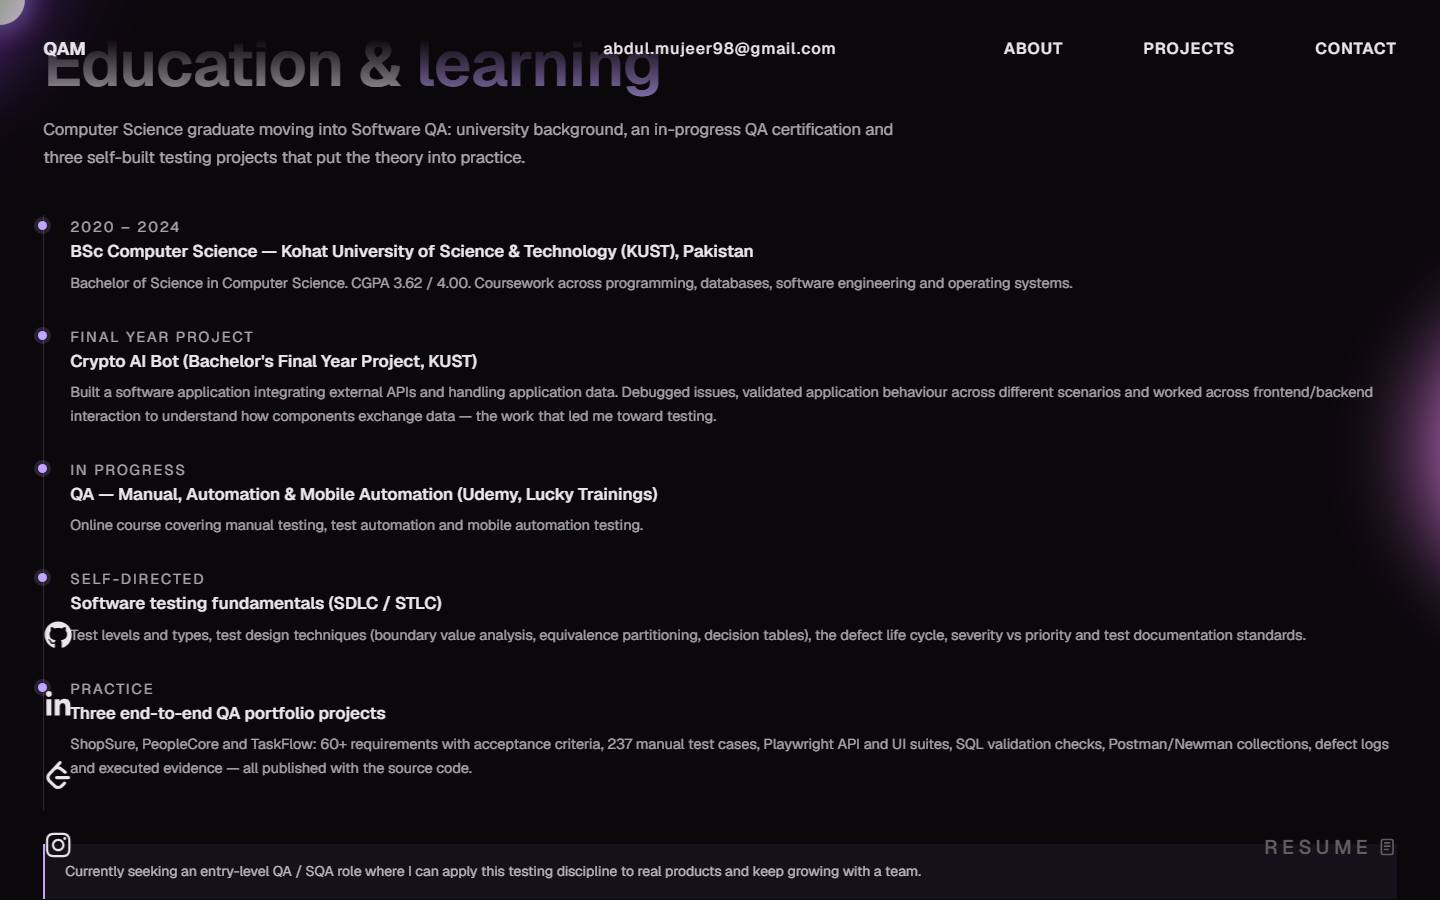
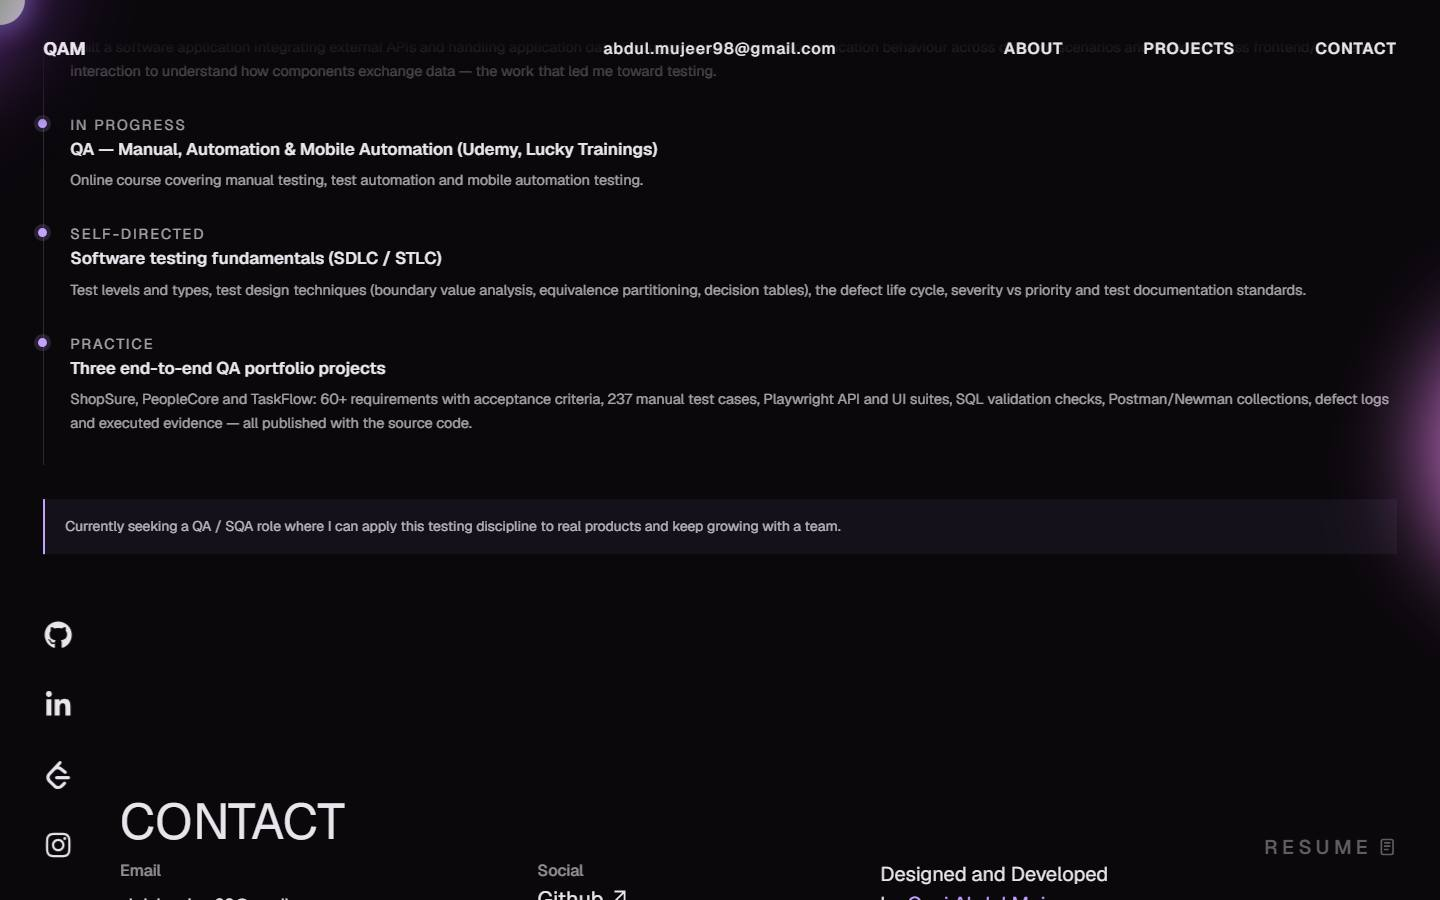
feat(about): recruiter-focused About section, QA wording cleanup and CV-backed facts
About section
- rewritten as a hook ('I don't just find bugs - I prove software is ready to ship'), a developer-to-QA positioning paragraph, a results paragraph quoting the real project totals (60 requirements, 237 manual cases, 525 automated checks, 21 defects found and fixed including the critical attendance authorization gap) and a Proof of work list with case-study and GitHub links for ShopSure, PeopleCore and TaskFlow
- supporting copy uses its own type scale (the existing .about-me p rule is outranked deliberately) so the section keeps a clear hierarchy

Wording
- 'entry-level' removed everywhere it described the owner: hero tagline, QA skills lede, footer, Education note, meta description, keywords, social description, README, build plan, handover topic list

Behaviour fixes found while verifying
- the 'What I Do' capability cards were tied to a scroll-scrubbed GSAP timeline (display none -> flex after a 6s delay inside the character animation), which made the QA skills unreliable or invisible; the cards now render always and the redundant reveal tweens are gone, while the section heading and character keep animating

Verification
- verify-site is now 27 checks: adds SITE-17 (What I Do cards visible with the QA capabilities) and SITE-18 (About proof-of-work links present, no 'entry-level' wording anywhere); section captures are only written when the target section is actually framed and the report records each one, so evidence can never be mislabelled

diff --git a/src/components/About.tsx b/src/components/About.tsx
@@ -1,13 +1,55 @@
+import { qaProjects } from "../data/qaProjects";
 import "./styles/About.css";
 
+/**
+ * About section.
+ *
+ * The copy is deliberately specific: every number comes from the three projects' own executed
+ * test reports (see docs/HANDOVER.md), and no claim is made about commercial QA employment.
+ */
 const About = () => {
   return (
     <div className="about-section" id="about">
       <div className="about-me">
         <h3 className="title">About Me</h3>
+
         <p className="para">
-          Computer Science graduate with foundational knowledge of Software Quality Assurance and Manual Testing. Familiar with test case design, defect reporting, SDLC/STLC, functional testing, regression testing, API testing, and basic SQL/Python. Seeking an entry-level QA/QC position to apply testing skills and grow in a professional software development environment.
+          I don't just find bugs — I prove software is ready to ship.
         </p>
+
+        <p className="about-detail">
+          Computer Science graduate (Kohat University of Science &amp; Technology, CGPA 3.62/4.00)
+          and former full-stack developer at Cyphion, where I built and debugged web applications.
+          That background is my advantage in QA: I trace a defect to the layer that causes it,
+          reproduce it through the API, and write a report an engineer can act on immediately.
+        </p>
+
+        <p className="about-detail">
+          To demonstrate the discipline rather than describe it, I ran the full testing lifecycle on
+          three applications built as test targets: 60 requirements with acceptance criteria, 237
+          manual test cases, 525 executed automated checks (Playwright API and UI suites, SQL
+          validation, Postman collections run with Newman), a requirements traceability matrix and an
+          evidence-based release report. I found, fixed and regression-verified 21 defects — including
+          a critical authorization gap that let any employee write attendance records for anyone.
+        </p>
+
+        <div className="about-proof">
+          <h4>Proof of work</h4>
+          <ul>
+            {qaProjects.map((project) => (
+              <li key={project.slug}>
+                <span className="about-proof-name">{project.shortTitle}</span>
+                <span className="about-proof-focus">{project.tagline}</span>
+                <span className="about-proof-links">
+                  <a href={project.caseStudyUrl}>Case study</a>
+                  <a href={project.sourceUrl} target="_blank" rel="noreferrer">
+                    GitHub
+                  </a>
+                </span>
+              </li>
+            ))}
+          </ul>
+        </div>
       </div>
     </div>
   );

diff --git a/index.html b/index.html
@@ -10,12 +10,12 @@
     <title>Qazi Abdul Mujeer — QA / SQA Engineer Portfolio | Manual &amp; Automation Testing</title>
     <meta
       name="description"
-      content="Entry-level QA / SQA engineer portfolio: three complete software testing projects with manual test cases, REST API testing, Playwright UI automation, SQL validation, defect reports and executed evidence."
+      content="QA / SQA engineer portfolio: three complete software testing projects with manual test cases, REST API testing, Playwright UI automation, SQL validation, defect reports and executed evidence."
     />
     <meta name="author" content="Qazi Abdul Mujeer" />
     <meta
       name="keywords"
-      content="QA engineer portfolio, SQA, manual testing, test cases, API testing, Playwright, Postman, SQL testing, defect reporting, entry level QA"
+      content="QA engineer portfolio, SQA, software testing, manual testing, test cases, API testing, Playwright, Postman, SQL testing, defect reporting, quality assurance"
     />
     <link rel="canonical" href="https://portfolio-abdul-mujeer.vercel.app/" />
 
@@ -32,7 +32,7 @@
     <meta name="twitter:title" content="Qazi Abdul Mujeer — QA / SQA Engineer Portfolio" />
     <meta
       name="twitter:description"
-      content="Entry-level QA portfolio with three complete testing projects, real executed test evidence and documented defects."
+      content="QA portfolio with three complete testing projects, real executed test evidence and documented defects."
     />
     <meta name="twitter:image" content="https://portfolio-abdul-mujeer.vercel.app/images/qa-projects/shopsure-qa-card.jpg" />
   </head>

diff --git a/src/components/styles/About.css b/src/components/styles/About.css
@@ -30,6 +30,79 @@
   letter-spacing: 1px;
 }
 
+/* Supporting copy added for the QA portfolio: smaller than the lead statement so the section keeps
+   a clear hierarchy (hook -> substance -> proof). Scoped with .about-me to outrank `.about-me p`. */
+.about-me .about-detail {
+  margin: 18px 0 0;
+  font-size: 15.5px;
+  font-weight: 300;
+  line-height: 1.7;
+  letter-spacing: 0.2px;
+  color: rgba(234, 229, 236, 0.75);
+  max-width: 62ch;
+}
+
+.about-proof {
+  margin-top: 28px;
+}
+
+.about-proof h4 {
+  margin: 0 0 12px;
+  font-size: 12px;
+  font-weight: 600;
+  letter-spacing: 2.6px;
+  text-transform: uppercase;
+  color: var(--accentColor);
+}
+
+.about-proof ul {
+  margin: 0;
+  padding: 0;
+  list-style: none;
+  display: grid;
+  gap: 10px;
+}
+
+.about-proof li {
+  display: flex;
+  flex-wrap: wrap;
+  align-items: baseline;
+  gap: 4px 10px;
+  font-size: 14.5px;
+  line-height: 1.5;
+  color: rgba(234, 229, 236, 0.8);
+}
+
+.about-proof-name {
+  font-weight: 600;
+  color: #fff;
+}
+
+.about-proof-focus {
+  color: rgba(234, 229, 236, 0.55);
+}
+
+.about-proof-links {
+  display: inline-flex;
+  gap: 12px;
+  white-space: nowrap;
+}
+
+.about-proof-links a {
+  font-size: 12.5px;
+  font-weight: 600;
+  color: rgba(234, 229, 236, 0.9);
+  border-bottom: 1px solid rgba(255, 255, 255, 0.28);
+  transition: color 0.2s ease, border-color 0.2s ease;
+}
+
+.about-proof-links a:hover,
+.about-proof-links a:focus-visible {
+  color: var(--accentColor);
+  border-color: var(--accentColor);
+  text-decoration: none;
+}
+
 @media only screen and (min-width: 600px) {
   .about-section {
     justify-content: center;

diff --git a/src/components/utils/GsapScroll.ts b/src/components/utils/GsapScroll.ts
@@ -90,12 +90,6 @@ export function setCharTimeline(
         .to(monitor.material, { opacity: 1, duration: 0.8, delay: 3.2 }, 0)
         .to(screenLight.material, { opacity: 1, duration: 0.8, delay: 4.5 }, 0)
         .fromTo(
-          ".what-box-in",
-          { display: "none" },
-          { display: "flex", duration: 0.1, delay: 6 },
-          0
-        )
-        .fromTo(
           monitor.position,
           { y: -10, z: 2 },
           { y: 0, z: 0, delay: 1.5, duration: 3 },
@@ -119,16 +113,8 @@ export function setCharTimeline(
         .to(character.rotation, { x: -0.04, duration: 2, delay: 1 }, 0);
     }
   } else {
-    if (character) {
-      const tM2 = gsap.timeline({
-        scrollTrigger: {
-          trigger: ".what-box-in",
-          start: "top 70%",
-          end: "bottom top",
-        },
-      });
-      tM2.to(".what-box-in", { display: "flex", duration: 0.1, delay: 0 }, 0);
-    }
+    // The capability cards are always rendered (see WhatIDo.css), so no reveal tween is needed here.
+    void character;
   }
 }
 

diff --git a/src/components/QASkills.tsx b/src/components/QASkills.tsx
@@ -16,9 +16,9 @@ const QASkills = () => {
           QA skills &amp; <span>tools</span>
         </h2>
         <p className="qa-lede">
-          A practical, entry-level QA toolkit built by testing three real applications end to end —
-          the same lifecycle a QA team follows: understand requirements, design risk-based tests, execute
-          them manually, automate the critical paths, validate the data and report with evidence.
+          A practical QA toolkit built by testing three real applications end to end — the same
+          lifecycle a QA team follows: understand requirements, design risk-based tests, execute them
+          manually, automate the critical paths, validate the data and report with evidence.
         </p>
 
         <div className="qa-skill-grid">

diff --git a/src/components/Footer.tsx b/src/components/Footer.tsx
@@ -29,8 +29,8 @@ const Footer = () => {
             <p className="qa-footer-brand">Qazi Abdul Mujeer</p>
             <p className="qa-footer-role">Aspiring QA / SQA Engineer · Manual &amp; Automation Testing</p>
             <p className="qa-footer-meta">
-              Entry-level QA portfolio built on three self-made demo applications. All test results on this
-              site were produced by executed runs and are documented in the repository.
+              QA portfolio built on three self-made applications. Every test result on this site was
+              produced by an executed run and is documented in the repository.
             </p>
           </div>
 

diff --git a/src/components/Landing.tsx b/src/components/Landing.tsx
@@ -14,8 +14,8 @@ const Landing = ({ children }: PropsWithChildren) => {
               <span>MUJEER</span>
             </h1>
             <p className="landing-tagline">
-              Entry-level QA / SQA engineer: manual testing, API testing, SQL validation and
-              Playwright automation — demonstrated in three end-to-end projects with published evidence.
+              QA / SQA engineer — manual testing, API testing, SQL validation and Playwright
+              automation, proven across three end-to-end projects with published evidence.
             </p>
           </div>
           <div className="landing-info">

diff --git a/src/components/Education.tsx b/src/components/Education.tsx
@@ -59,8 +59,8 @@ const Education = () => {
         </div>
 
         <p className="qa-note">
-          Currently seeking an entry-level QA / SQA role where I can apply this testing discipline to
-          real products and keep growing with a team.
+          Currently seeking a QA / SQA role where I can apply this testing discipline to real products
+          and keep growing with a team.
         </p>
       </div>
     </section>

diff --git a/src/components/styles/WhatIDo.css b/src/components/styles/WhatIDo.css
@@ -36,6 +36,8 @@
   height: 550px;
   margin-left: 200px;
   position: relative;
+  /* Always rendered: the capability cards carry the QA skills, so their visibility is not tied to
+     the 3D scroll timeline (the section's heading and the character still animate). */
   display: flex;
   overflow: hidden; /* removes the extra line below the last card */
 }

diff --git a/test-evidence/site-verification.md b/test-evidence/site-verification.md
@@ -1,8 +1,8 @@
 # Portfolio site verification
 
-- Executed: 2026-10-14T02:45:40.324Z
+- Executed: 2026-10-14T10:56:05.923Z
 - Command: `npm run verify:site` (production build served by `vite preview`, driven by Playwright Chromium)
-- Result: **26/26 checks passed**
+- Result: **27/27 checks passed**
 
 | ID | Check | Result | Detail |
 |----|-------|--------|--------|
@@ -22,9 +22,10 @@
 | SITE-05b | CV PDF is served and is a real PDF | PASS | status 200 |
 | SITE-06 | Footer navigation and social links render | PASS | 12 links |
 | SITE-07 | Page title reflects the QA positioning | PASS | Qazi Abdul Mujeer — QA / SQA Engineer Portfolio \| Manual & Automation Testing |
-| SITE-08 | Meta description present | PASS | Entry-level QA / SQA engineer portfolio: three complete soft |
+| SITE-08 | Meta description present | PASS | QA / SQA engineer portfolio: three complete software testing |
 | SITE-09 | Favicon declared | PASS | /favicon.svg |
 | SITE-17 | What I Do cards are visible and list the QA capabilities | PASS | display=flex, visible=true, cards=["Manual QA","Automation QA"] |
+| SITE-18 | About section shows QA positioning, proof-of-work links and no 'entry-level' wording | PASS | case-study links=3, github links=3, entry-level wording=false, heading=Proof of work |
 | SITE-16 | QA toolbox renders a WebGL canvas and the sphere physics activates on scroll | PASS | canvases=1, data-active=true |
 | SITE-10 | Résumé page loads with the owner's name | PASS | Qazi Abdul Mujeer |
 | SITE-11 | ShopSure case study renders with executed metrics | PASS | 6 metric cards |
@@ -32,6 +33,14 @@
 | SITE-13 | No uncaught console errors | PASS |  |
 | SITE-14 | No failed internal requests (>=400) | PASS |  |
 | SITE-15 | Loading screen dismissed and the site is interactive | PASS | loading overlay still present after 90s |
+
+## Section captures
+
+Section screenshots are only saved when the target section is actually in frame (the page uses
+GSAP ScrollSmoother, which makes precise programmatic scrolling unreliable).
+
+- portfolio-career.jpg (#career)
+- portfolio-education.jpg (#education)
 
 Screenshots captured by this run: `portfolio-home-desktop.jpg`, `portfolio-qa-projects.jpg`,
 `portfolio-case-study.jpg`, `portfolio-home-mobile.jpg` (in this folder).

diff --git a/README.md b/README.md
@@ -9,7 +9,7 @@ This repository contains my personal portfolio plus **three complete, runnable s
 projects**. Each project ships a real demo application, a full QA lifecycle documentation package,
 automated test suites, executed evidence and a release report.
 
-I am an entry-level QA / SQA candidate: Computer Science graduate, self-taught in software testing, and
+I am a QA / SQA candidate: Computer Science graduate, self-taught in software testing, and
 the work below is **portfolio practice built on demo applications I wrote myself** — it is not commercial
 QA employment experience, and no number in it is estimated.
 
@@ -61,7 +61,7 @@ Portfolio case studies (generated from each project's own executed artefacts):
 | Section | What it shows |
 |---------|---------------|
 | Hero | Name plus "Quality Assurance — Tester / Engineer" |
-| About | Entry-level QA/SQA positioning |
+| About | QA/SQA positioning, proof of work with links to the three projects |
 | What I Do | Manual QA and Automation QA capability cards |
 | QA Skills & Tools | Six skill groups (design, API, UI automation, database, process, foundations) |
 | QA Projects | The three case-study cards with verified metrics |

diff --git a/docs/BUILD-PLAN.md b/docs/BUILD-PLAN.md
@@ -9,7 +9,7 @@
 ## 1. Executive summary
 
 Turn the existing personal portfolio (`abdul-mujeer/portfolio`, React + Vite + GSAP) into a
-professional **entry-level QA / SQA engineer** portfolio that showcases three complete,
+professional **QA / SQA engineer** portfolio that showcases three complete,
 runnable software-testing projects:
 
 | # | Project | Focus | Location |
